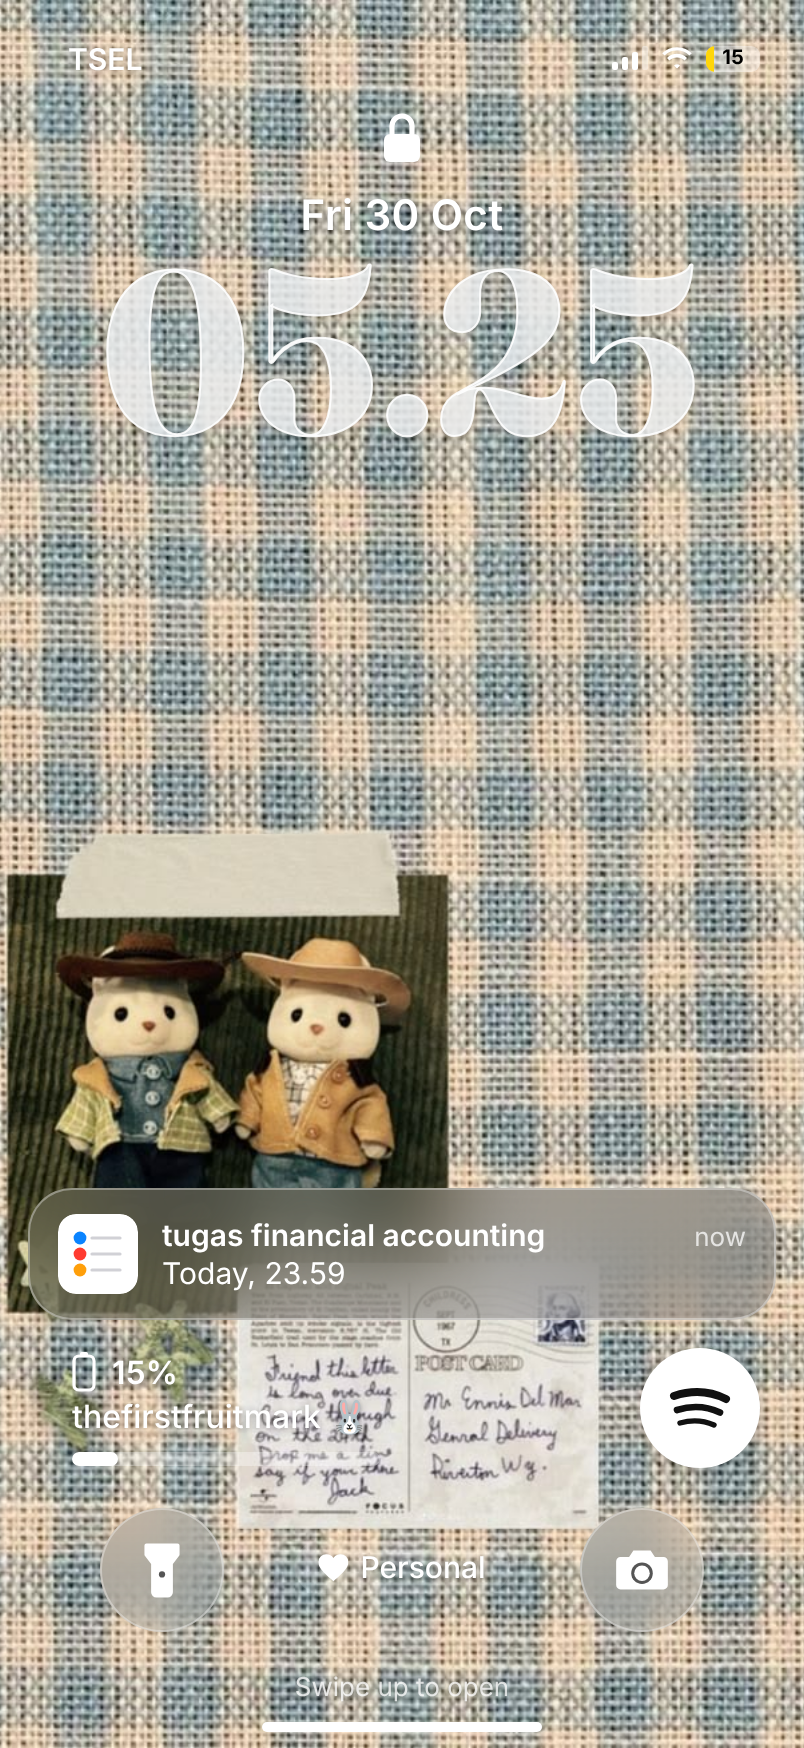
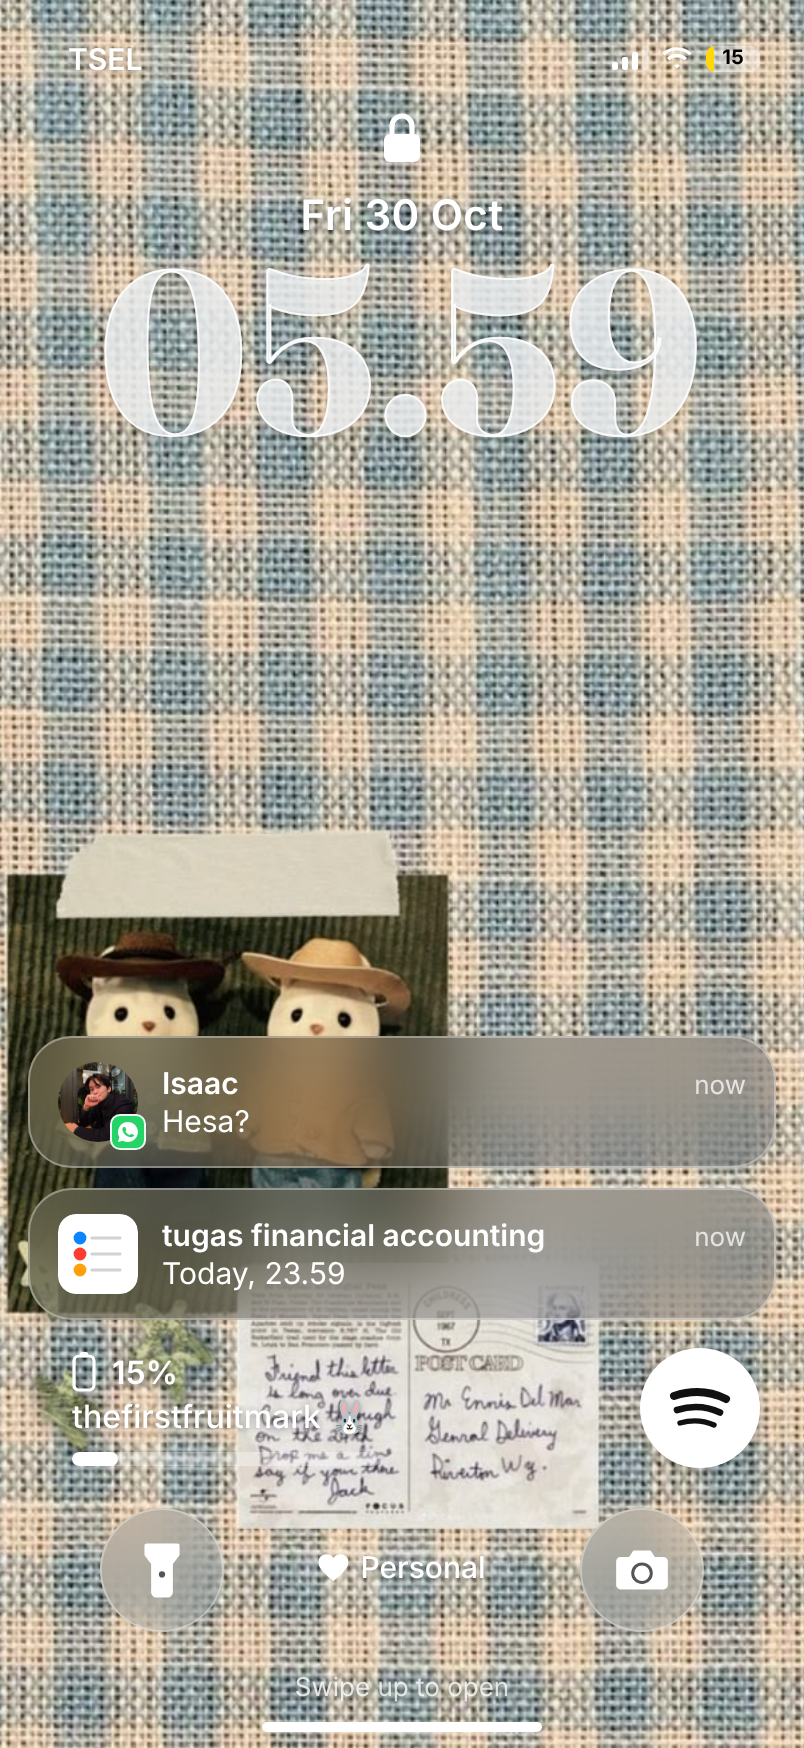
Pop-up notifications while the page is open
CONFIG.live schedules notifications a number of seconds after the page
opens (or after the first unlock). On the lock screen they slide into
the stack (tapping asks for the passcode, then opens the chat); when
unlocked a banner drops in and opens the app on tap. WhatsApp ones also
deliver the message into the chat and update its preview and unread
count, or appear straight in the conversation if it's open. A short
chime plays (after the reader's first tap) and phones buzz.

Claude-Session: https://claude.ai/code/session_01S4MMPuSAFcVib9uRGyTrxa

diff --git a/index.html b/index.html
@@ -100,6 +100,18 @@
   }
   .avatar { position: relative; flex: none; width: 40px; height: 40px; }
   .avatar img { width: 40px; height: 40px; border-radius: 50%; object-fit: cover; pointer-events: none; }
+  /* pop-up notifications */
+  .notif.live-in { animation: liveIn .5s var(--ease); }
+  @keyframes liveIn { from { opacity: 0; transform: translateY(-14px) scale(.96); } }
+  .banner { position: absolute; top: 10px; left: 8px; right: 8px; z-index: 8; transform: translateY(-130%); transition: transform .45s var(--ease);
+            cursor: pointer; text-shadow: none; }
+  .banner.show { transform: none; }
+  .banner .notif { background: rgba(245,245,247,.86); border-color: rgba(255,255,255,.6); box-shadow: 0 8px 30px rgba(0,0,0,.18); }
+  .banner .notif .name, .banner .notif .msg { color: #000; }
+  .banner .notif .when { color: #6e6e73; }
+  .app-mini { display: block; width: 40px; height: 40px; }
+  .app-mini .icon { width: 62px; height: 62px; transform: scale(.645); transform-origin: 0 0; border-radius: 15px; overflow: hidden;
+                    display: grid; place-items: center; }
   .avatar .app-ic { display: block; width: 40px; height: 40px; border-radius: 9px; overflow: hidden; }
   .avatar .badge {
     position: absolute; right: -4px; bottom: -4px; width: 18px; height: 18px;
@@ -384,6 +396,7 @@
   <section class="app-layer" id="appLayer"></section>
   <div class="app-closer" id="appCloser"></div>
 
+  <div class="banner" id="banner"></div>
   <div class="home-bar"></div>
 </div>
 
@@ -2089,6 +2102,21 @@ kantong sampah 😭
       { name: "Niel",  avatar: "🐰.jpg", message: "Hi", when: "now", show: false },
       { app: "reminders", name: "tugas financial accounting", message: "Today, 23.59", when: "now" },
     ],
+    // Pop-up notifications while the page is open, in order.
+    //   after: seconds to wait. start: "open" (default, counts from opening the
+    //   page) or "unlock" (counts from the first unlock).
+    //   WhatsApp: app: "whatsapp", chat: its number in whatsapp.chats (0 = Isaac,
+    //     1 = Niel, 2 = the group…; add sender: "Niel" for a group). The message
+    //     also arrives in that chat. Tapping the notification opens the chat.
+    //   Other apps: app: "reminders", or name + avatar + open: "Mail" (any app
+    //     name on the home screen, which tapping opens).
+    //   time: "22.15" sets the message's time in the chat (default: the real time).
+    //   sound: false = no chime. stay: seconds a banner stays (default 5).
+    // These two are examples — replace them with your own.
+    live: [
+      { after: 12, app: "whatsapp", chat: 0, message: "Hesa?", time: "22.10" },
+      { after: 25, app: "whatsapp", chat: 1, message: "kamu udah tidur belum?", time: "22.11" },
+    ],
     // WhatsApp chat list, top to bottom.
     //   avatar: a photo file, or leave it out for the default person icon
     //   group: true (group icon)      unread: number of unread messages
@@ -2345,6 +2373,7 @@ kantong sampah 😭
   }
   tick();
   setInterval(tick, 1000);
+  setTimeout(() => scheduleLive("open"), 0);
 
   // ---- Screens: lock -> passcode -> home ----
   let state = "lock";
@@ -2395,6 +2424,99 @@ kantong sampah 😭
   });
 
   // ---- Apps: tap an icon to open its screen, swipe up from the bottom edge to close ----
+  // ---- Pop-up notifications while the page is open (CONFIG.live) ----
+  const nowHHMM = () => CONFIG.time ?? (d => `${pad(d.getHours())}.${pad(d.getMinutes())}`)(new Date());
+  let audioCtx = null;
+  const ding = () => {   // a soft two-note chime, made in the browser (no sound file needed)
+    try {
+      audioCtx ??= new (window.AudioContext || window.webkitAudioContext)();
+      [[1318.5, 0], [1760, .12]].forEach(([f, t]) => {
+        const o = audioCtx.createOscillator(), g = audioCtx.createGain();
+        o.type = "sine"; o.frequency.value = f;
+        g.gain.setValueAtTime(0, audioCtx.currentTime + t);
+        g.gain.linearRampToValueAtTime(.18, audioCtx.currentTime + t + .01);
+        g.gain.exponentialRampToValueAtTime(.001, audioCtx.currentTime + t + .5);
+        o.connect(g).connect(audioCtx.destination);
+        o.start(audioCtx.currentTime + t); o.stop(audioCtx.currentTime + t + .55);
+      });
+    } catch {}
+    navigator.vibrate?.(120);
+  };
+  // browsers only allow sound after the first tap/key press on the page
+  ["pointerdown", "keydown"].forEach(ev => window.addEventListener(ev, () => {
+    try { audioCtx ??= new (window.AudioContext || window.webkitAudioContext)(); audioCtx.resume(); } catch {}
+  }, { once: true }));
+
+  const appIcon = name => {
+    const tile = document.querySelector(`#homeScreen .app[data-app="${CSS.escape(name)}"] .icon`);
+    return tile ? `<span class="app-mini">${tile.outerHTML}</span>` : "";
+  };
+  // who / what a live notification shows, and where tapping it leads
+  function liveView(n) {
+    if (n.app === "whatsapp") {
+      const c = CONFIG.whatsapp.chats[n.chat] || {};
+      const base = c.fromNotification != null ? { ...CONFIG.notifications[c.fromNotification], ...saved[c.fromNotification] } : {};
+      return { name: n.name ?? (c.group ? `${n.sender ? n.sender + " @ " : ""}${c.name}` : base.name ?? c.name),
+               avatar: n.avatar ?? base.avatar ?? c.avatar, badge: "whatsapp", target: { app: "WhatsApp", chat: n.chat } };
+    }
+    if (n.app === "reminders") return { name: n.name, icon: remindersIcon, target: null };
+    return { name: n.name, avatar: n.avatar, icon: appIcon(n.open || ""), target: n.open ? { app: n.open } : null };
+  }
+  function openTarget(t) {
+    if (!t) return;
+    const el = document.querySelector(`#homeScreen .app[data-app="${CSS.escape(t.app)}"]`);
+    if (!el) return;
+    if (state === "app") closeApp();
+    openApp(el);
+    if (t.chat != null) setTimeout(() => waHooks?.open(t.chat), 450);
+  }
+  let pendingTarget = null;
+  const lockNotifHTML = (v, n) => `
+    <div class="notif live-in">
+      <div class="avatar">${v.icon ? v.icon : `<img src="${src(v.avatar || "")}" alt="">${v.badge === "whatsapp" ? `<span class="badge">${wa}</span>` : ""}`}</div>
+      <div class="body">
+        <div class="row"><span class="name">${esc(v.name || "")}</span><span class="when">now</span></div>
+        <div class="msg">${esc(n.message || "")}</div>
+      </div>
+    </div>`;
+  function fireLive(n) {
+    // a WhatsApp message also lands in its chat
+    let onScreen = false;
+    if (n.app === "whatsapp" && CONFIG.whatsapp.chats[n.chat]) {
+      const c = CONFIG.whatsapp.chats[n.chat], time = n.time ?? nowHHMM();
+      const msg = { day: "Today", from: "them", text: n.message, time, ...(n.sender ? { sender: n.sender } : {}) };
+      c.baseTime ??= c.time;   // the original last message keeps its own time
+      c.time = time;
+      c.message = n.message;
+      if (waState[n.chat]) { waState[n.chat].log.push(msg); c.newUnread = (c.newUnread || 0) + 1; }
+      else { (c.live ??= []).push(msg); c.unread = (c.unread || 0) + 1; }
+      if (c.group) c.sender = n.sender;
+      c.deleted = false; c.media = null; c.sent = false;
+      onScreen = waHooks?.live(n.chat, msg) || false;
+    }
+    if (onScreen) return;            // the reader is looking at that chat already
+    const v = liveView(n);
+    if (n.sound !== false) ding();
+    if (state === "lock" || state === "passcode") {
+      $("notifs").insertAdjacentHTML("afterbegin", lockNotifHTML(v, n));
+      const el = $("notifs").firstElementChild;
+      el.addEventListener("click", () => { pendingTarget = v.target; show("passcode"); });
+      return;
+    }
+    const b = $("banner");
+    b.innerHTML = lockNotifHTML(v, n);
+    b.firstElementChild.classList.remove("live-in");
+    b.onclick = () => { b.classList.remove("show"); openTarget(v.target); };
+    b.classList.remove("show"); void b.offsetWidth; b.classList.add("show");
+    clearTimeout(b._t);
+    b._t = setTimeout(() => b.classList.remove("show"), (n.stay ?? 5) * 1000);
+  }
+  // schedule them: "after" seconds from opening the page, or from unlocking when start: "unlock"
+  let unlockedOnce = false;
+  const scheduleLive = start => (CONFIG.live || []).forEach(n => {
+    if ((n.start || "open") === start) setTimeout(() => fireLive(n), (n.after || 0) * 1000);
+  });
+
   let openAppName = null;
   function openApp(appEl) {
     const name = openAppName = appEl.dataset.app;
@@ -2420,6 +2542,7 @@ kantong sampah 😭
     phone.classList.add("app-open");
   }
   const waState = {};
+  let waHooks = null;
   let notesDone = null, mailRead = null, safariRecent = null, msgsRead = null;   // ticked checklist items / opened emails, until reload
   const APP_KEYS = {};   // per-app keyboard handlers; return true when the key was used
   // Extra code for app screens that are built from CONFIG.
@@ -3320,10 +3443,11 @@ kantong sampah 😭
     WhatsApp(layer) {
       const WA = CONFIG.whatsapp;
       const lockNotifs = CONFIG.notifications.map((n, i) => ({ ...n, ...saved[i] }));
+      // live: messages that arrived as pop-up notifications (CONFIG.live) before the chat was opened
       const chats = WA.chats.map(c => {
-        if (c.fromNotification == null) return c;
+        if (c.fromNotification == null) return { ...c, history: [...(c.history || []), ...(c.live || [])] };
         const n = lockNotifs[c.fromNotification];
-        const history = [...(c.history || []), { day: "Today", from: "them", text: n.message, time: c.time }];
+        const history = [...(c.history || []), { day: "Today", from: "them", text: n.message, time: c.baseTime ?? c.time }, ...(c.live || [])];
         return { name: n.name, avatar: n.avatar, message: n.message, ...c, history };
       });
       const ic = {
@@ -3352,7 +3476,7 @@ kantong sampah 😭
                     : last.type === "doc" ? [last.name, last.pages && `${last.pages} pages`].filter(Boolean).join(" • ")
                     : last.type === "call" ? callTitle(last) : last.text;
         const media = { photo: "photo", voice: "mic", doc: "doc", call: last.call === "video" ? "video" : "call" }[last.type] || null;
-        return { ...c, message: label, sent: last.from === "me", time: last.time, unread: 0,
+        return { ...c, message: label, sent: last.from === "me", time: last.time, unread: c.newUnread || 0,
                  media, deleted: last.type === "deleted", sender: c.group && last.from === "them" ? last.sender : null };
       };
       const preview = c => {
@@ -3609,6 +3733,7 @@ kantong sampah 😭
       function openChat(i) {
         chatIdx = i;
         const c = chats[i];
+        WA.chats[i].newUnread = chats[i].newUnread = 0;
         if (!waState[i]) {
           let day = "Today";
           waState[i] = { log: (c.history || []).map(m => ({ ...m, day: (day = m.day ?? day), read: true })), step: 0 };
@@ -3645,6 +3770,20 @@ kantong sampah 😭
       });
       msgs.addEventListener("click", e => { if (!e.target.closest(".wa-vplay")) room.classList.remove("kb"); });
       layer.querySelector("#waSend").addEventListener("click", send);
+
+      // used by pop-up notifications (CONFIG.live)
+      waHooks = {
+        // a message arrived for chat i; returns true when that chat is on screen
+        live(i, msg) {
+          Object.assign(chats[i], { message: WA.chats[i].message, time: WA.chats[i].time, unread: WA.chats[i].unread,
+                                    newUnread: WA.chats[i].newUnread, history: [...(chats[i].history || []), msg] });
+          const onScreen = layer.isConnected && room.classList.contains("open") && chatIdx === i;
+          if (onScreen) { addBubble(msg); WA.chats[i].newUnread = chats[i].newUnread = 0; }
+          if (layer.isConnected) renderList();
+          return onScreen;
+        },
+        open(i) { if (layer.isConnected) openChat(i); },
+      };
     },
   };
 
@@ -3677,6 +3816,8 @@ kantong sampah 😭
     setTimeout(() => {
       if (code === CONFIG.passcode) {
         show("home");
+        if (!unlockedOnce) { unlockedOnce = true; scheduleLive("unlock"); }
+        if (pendingTarget) { const t = pendingTarget; pendingTarget = null; setTimeout(() => openTarget(t), 500); }
       } else {
         $("dots").classList.add("shake");
         navigator.vibrate?.(200);
